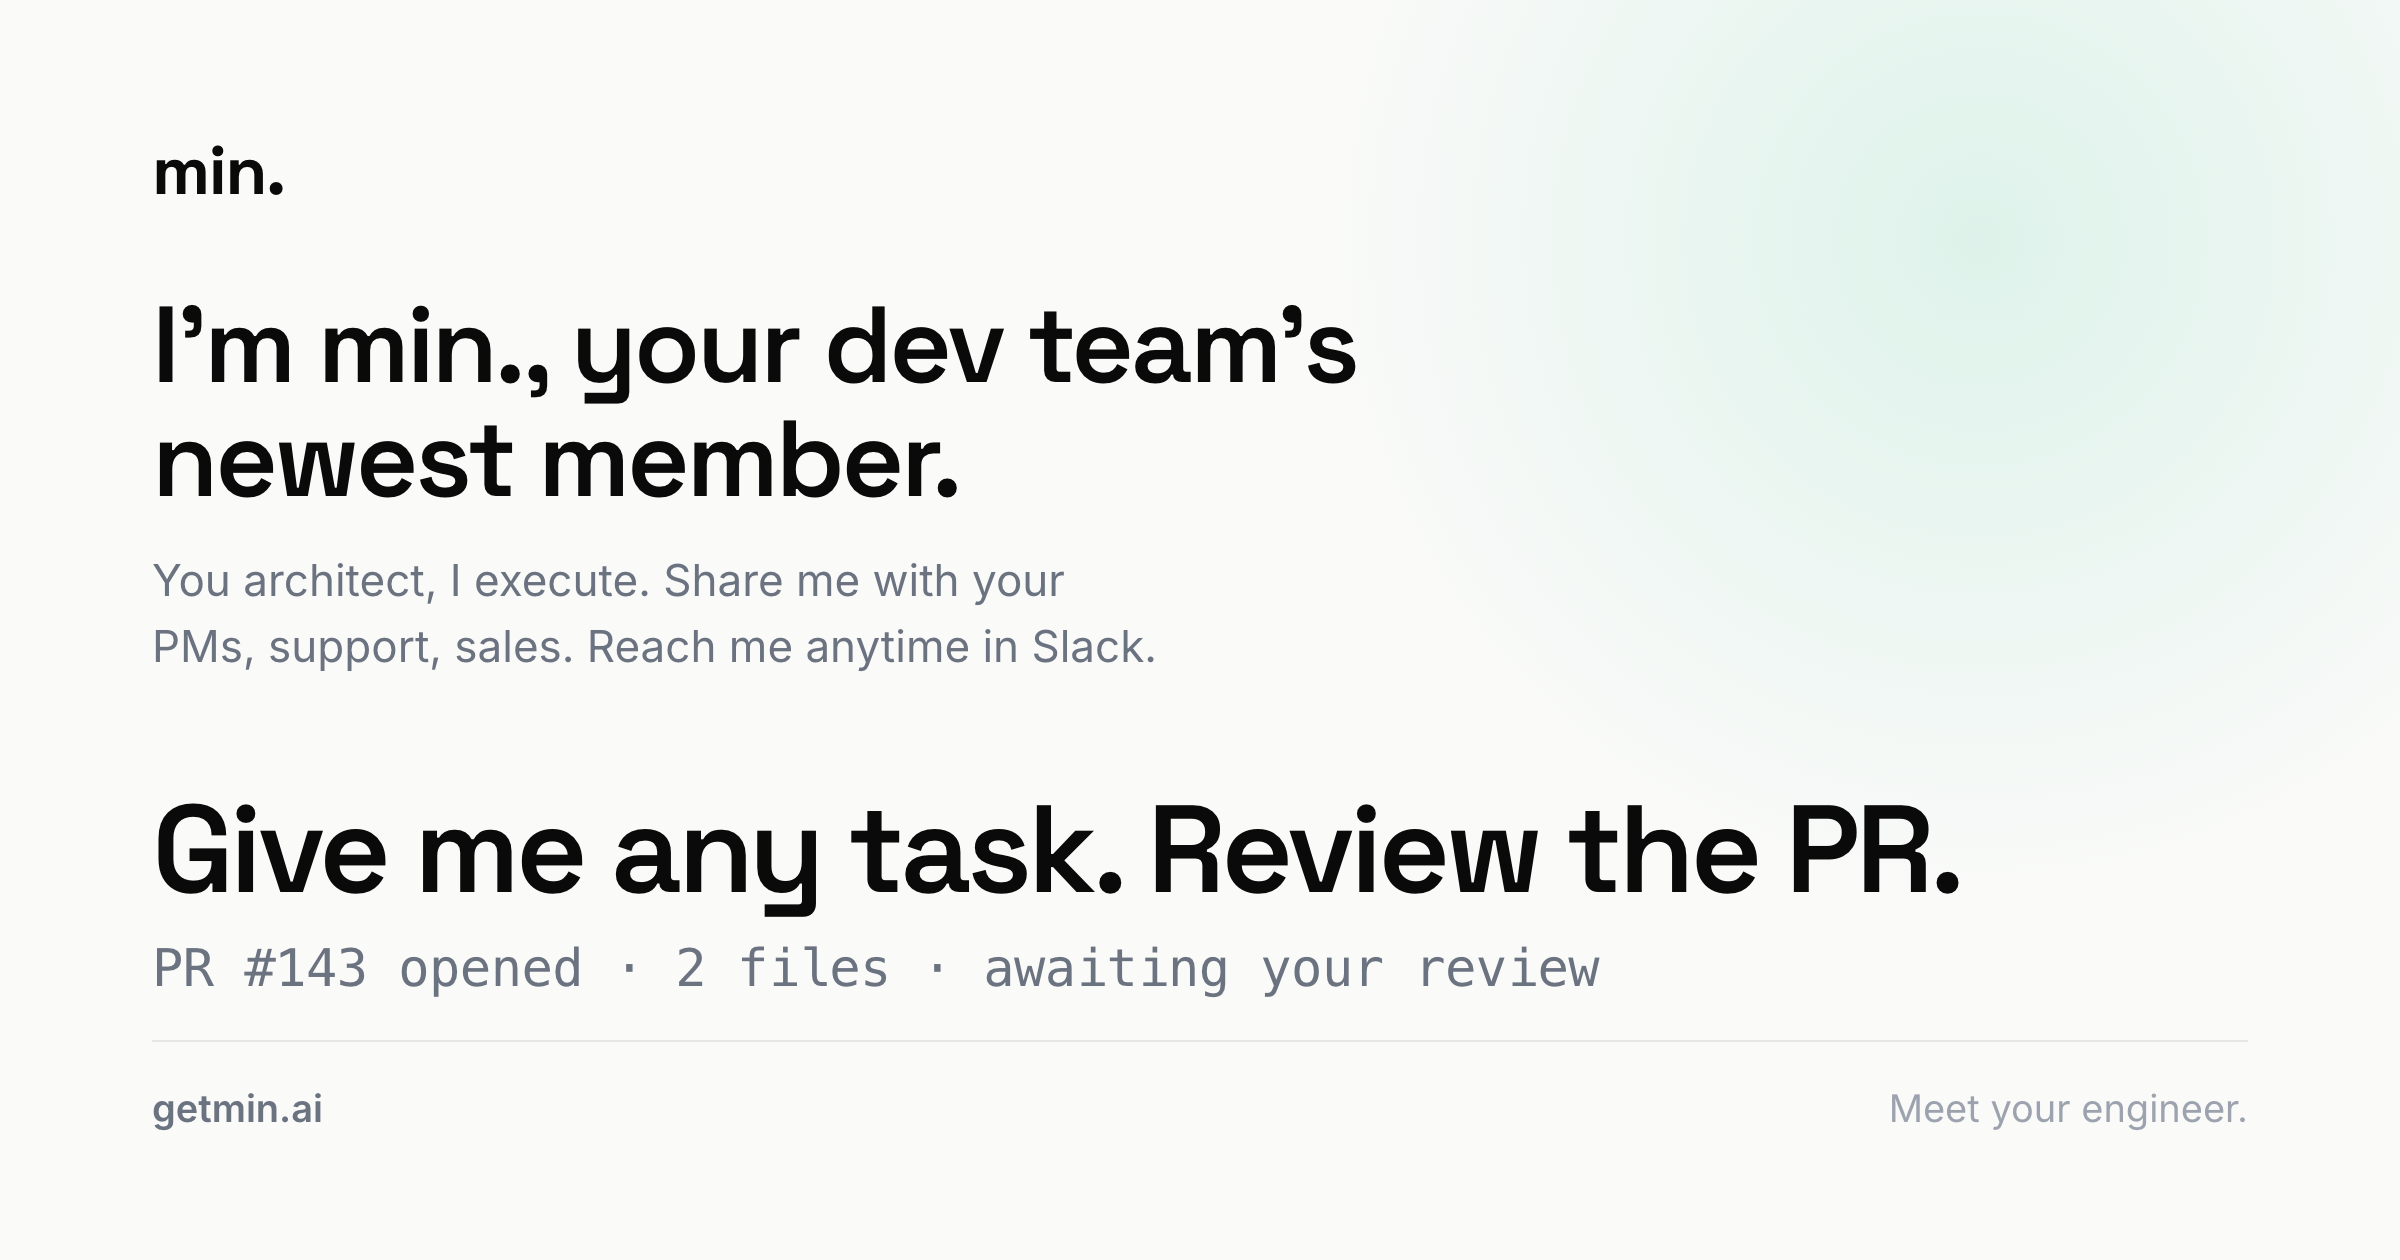
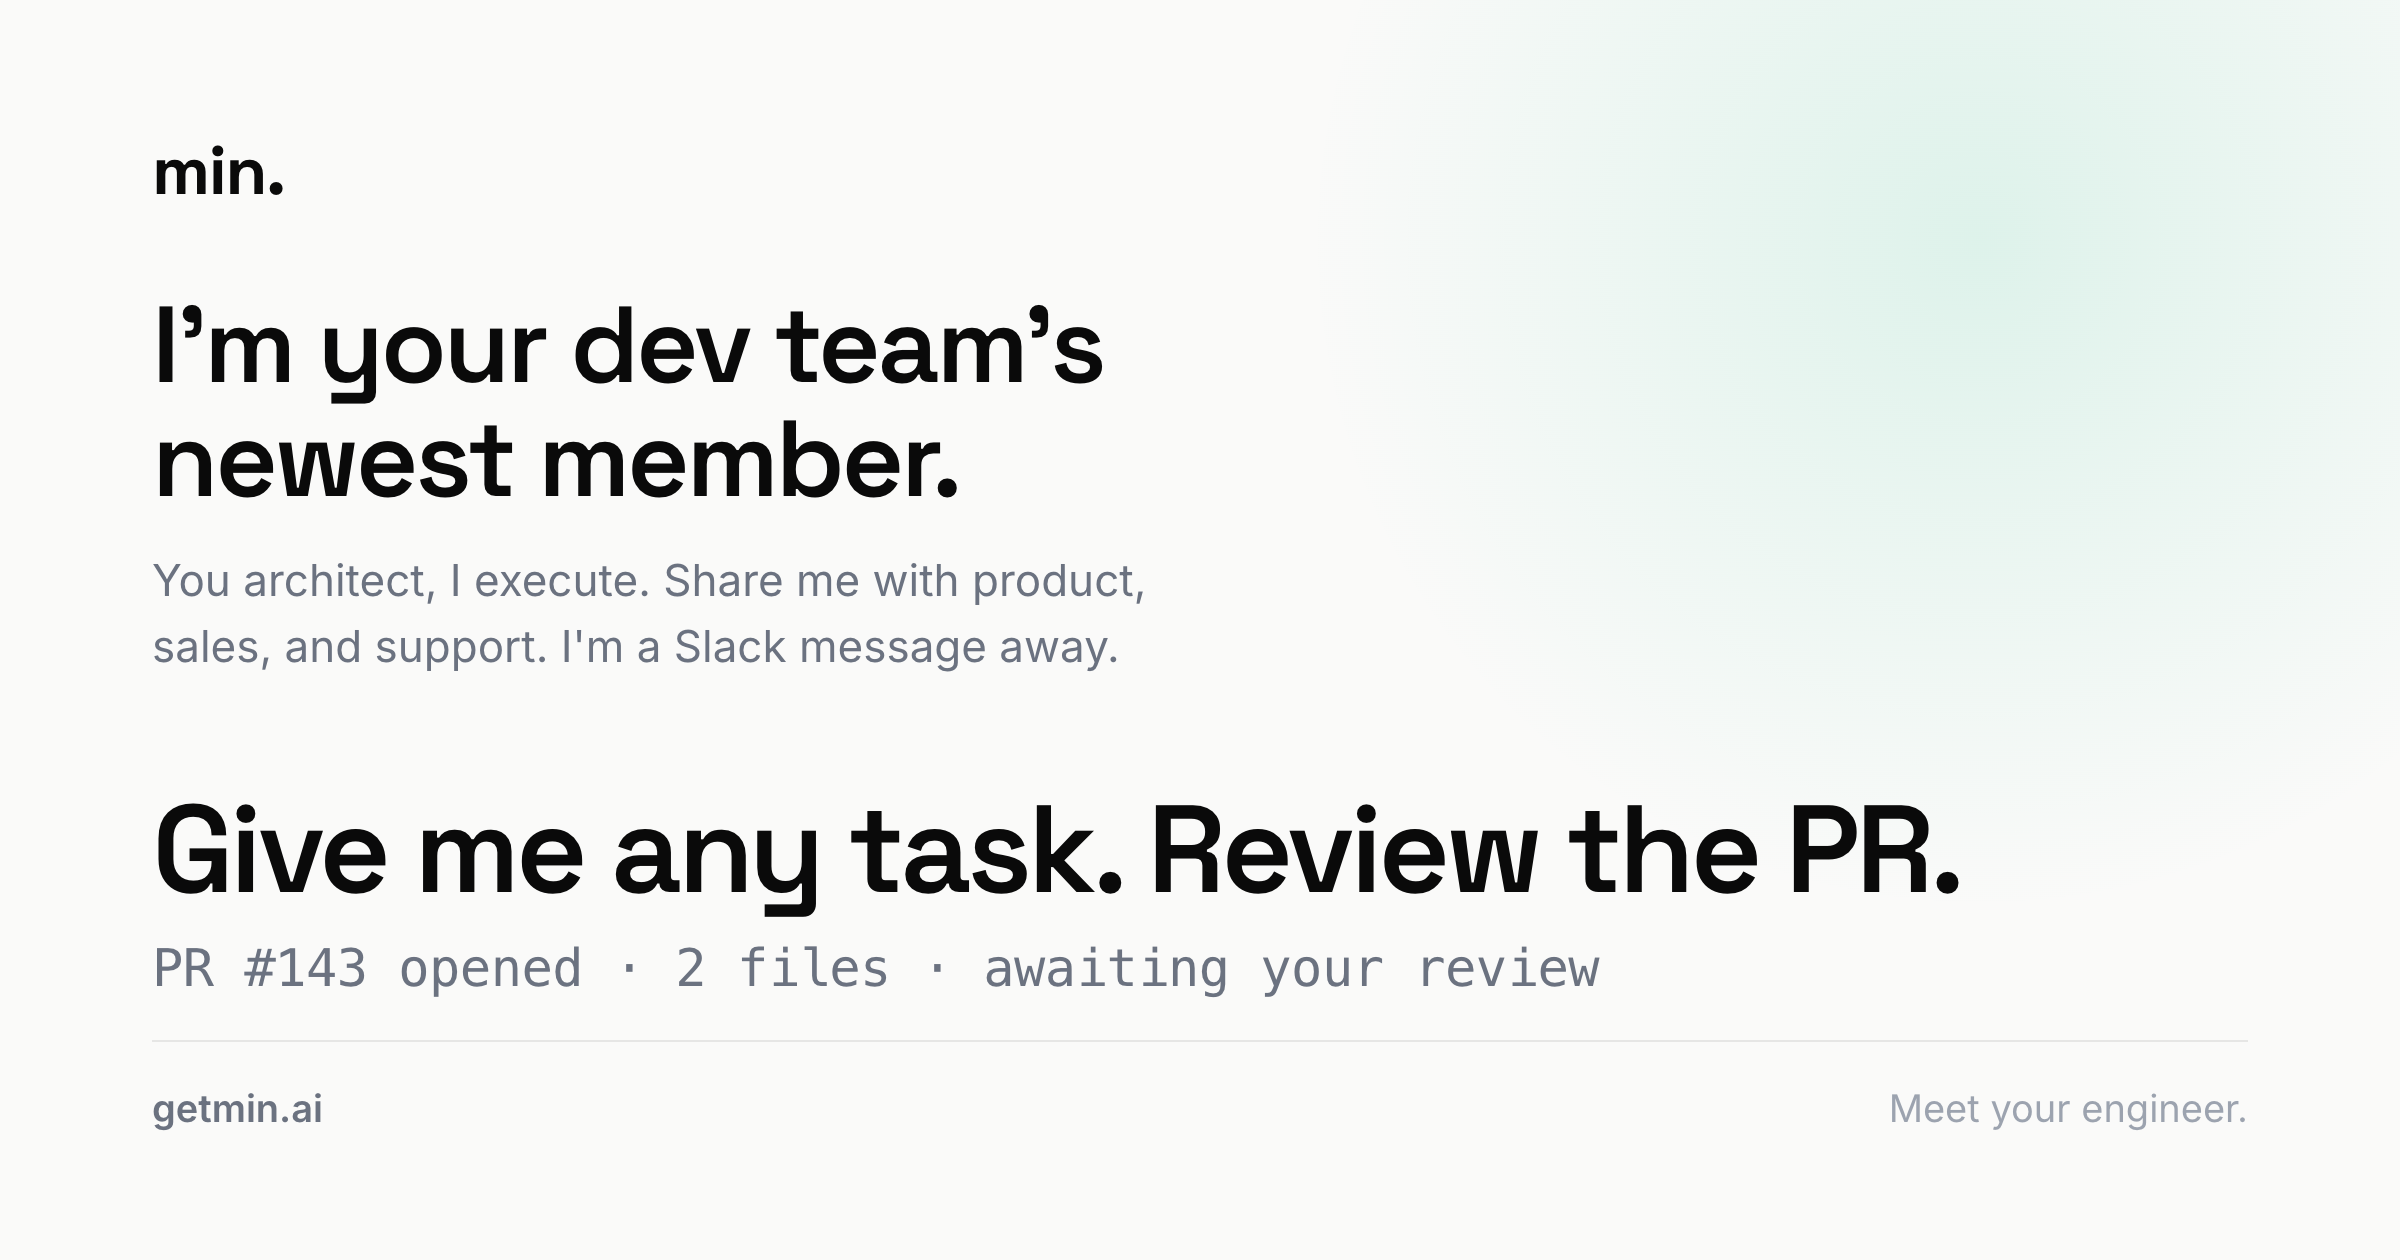
The hero flows: parallel roles, a Slack message away, no double introduction
"Share me with your PMs, support, sales" mixed people with departments;
now "product, sales, and support". "Reach me anytime in Slack" read like a
signoff; now "I'm a Slack message away". And the H1 drops "min.," — the
wordmark right above already made the introduction. OG image regenerated,
llms.txt hero quotes synced.

Changed region(s): [[0.125, 0.2476, 0.5625, 0.3405], [0.0625, 0.4333, 0.4688, 0.5262]]

diff --git a/src/components/landing/MinionLanding.tsx b/src/components/landing/MinionLanding.tsx
@@ -176,12 +176,12 @@ export default function MinionLanding() {
         {/* Hero */}
         <div className="max-w-[46rem]">
           <h1 className="font-display text-[2.2rem] font-semibold leading-[1.06] tracking-[-0.03em] text-ink [text-wrap:balance] md:text-[2.9rem]">
-            I'm min., your dev team's newest member.
+            I'm your dev team's newest member.
           </h1>
           <p className="mt-5 max-w-[36rem] text-[17.5px] leading-[1.6] text-quiet [text-wrap:pretty]">
             I'm your AI engineer. I turn requests into pull requests: you
-              architect, I execute. Share me with your PMs, support, sales.
-              Reach me anytime in Slack.
+            architect, I execute. Share me with product, sales, and support.
+            I'm a Slack message away.
           </p>
 
           <div className="mt-10">

diff --git a/public/og-image.html b/public/og-image.html
@@ -59,8 +59,8 @@
   <div class="og">
     <div>
       <div class="mark">min.</div>
-      <h1 style="margin-top:38px;">I'm min., your dev team's<br>newest member.</h1>
-      <p class="sub">You architect, I execute. Share me with your<br>PMs, support, sales. Reach me anytime in Slack.</p>
+      <h1 style="margin-top:38px;">I'm your dev team's<br>newest member.</h1>
+      <p class="sub">You architect, I execute. Share me with product,<br>sales, and support. I'm a Slack message away.</p>
     </div>
 
     <div style="margin-top:52px;">
